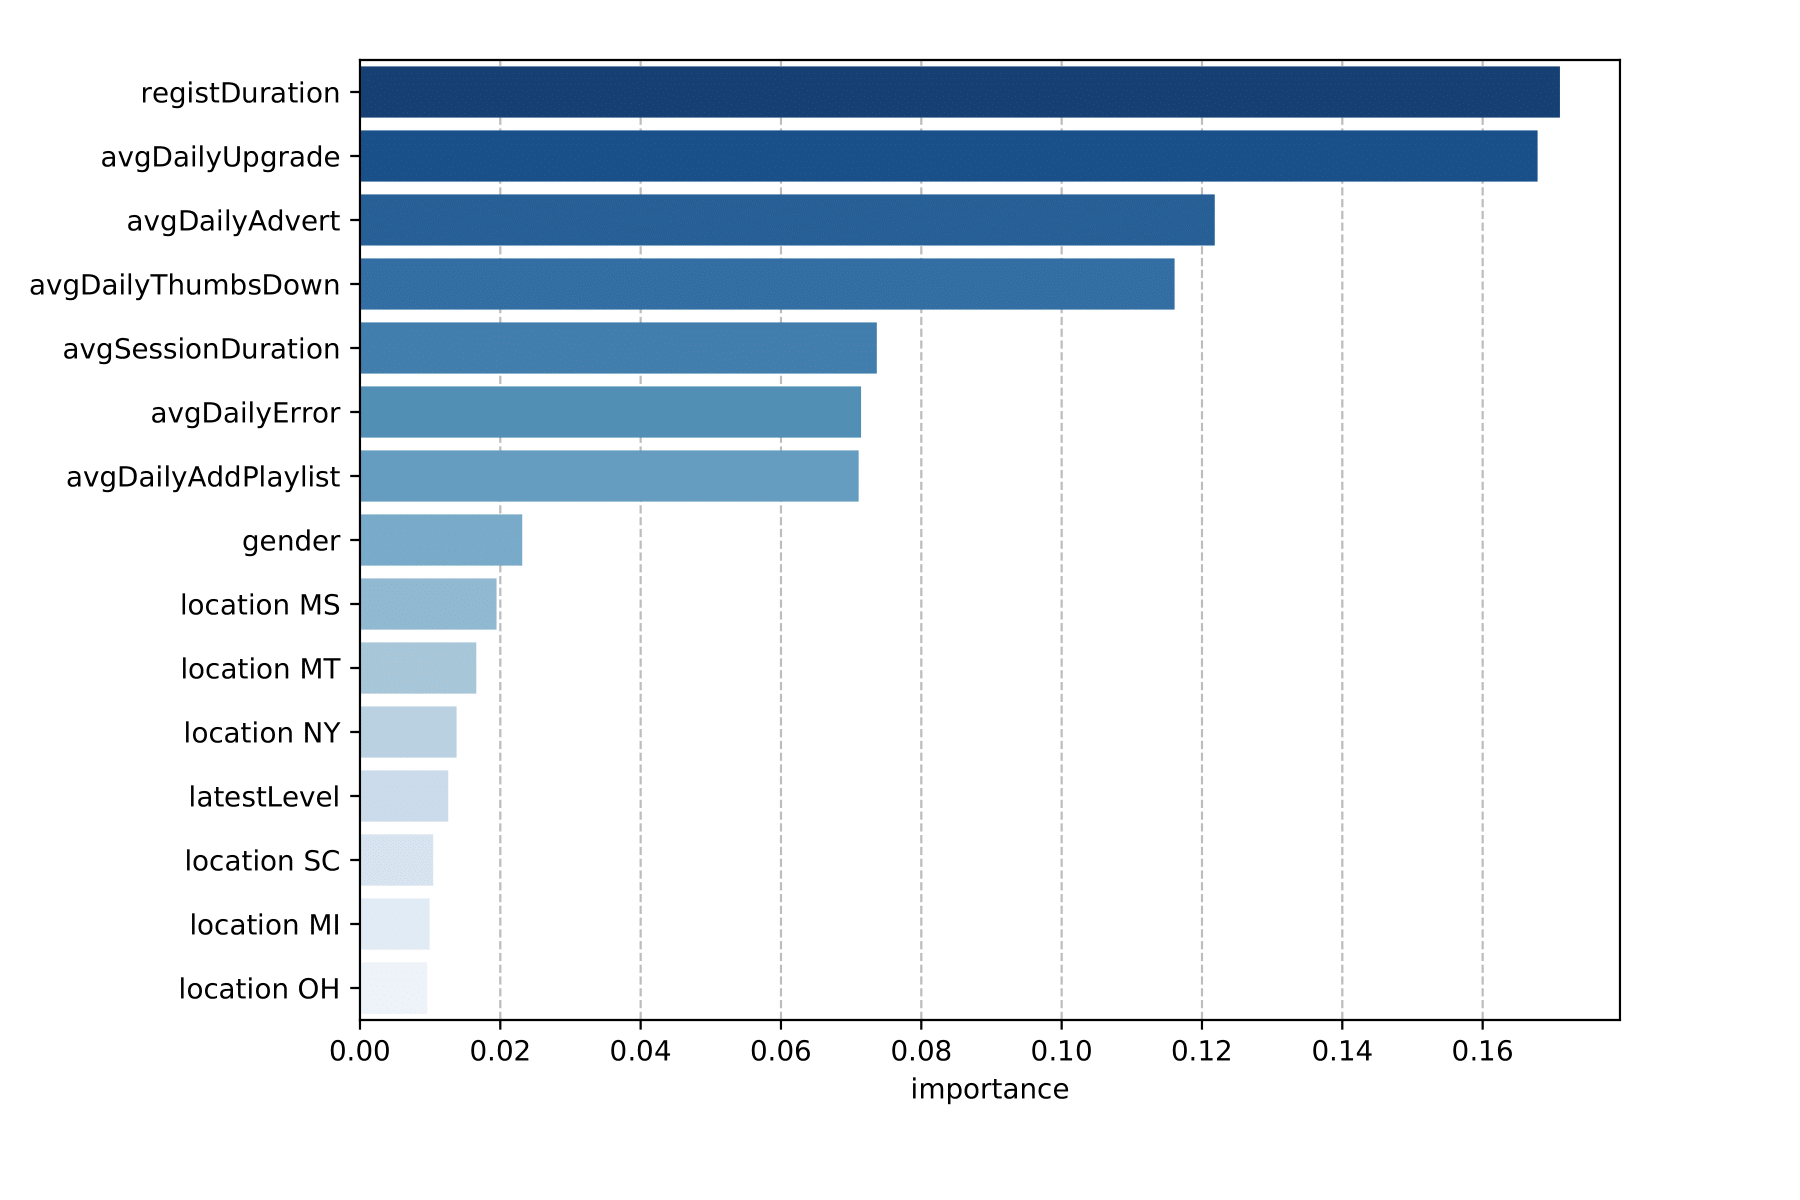
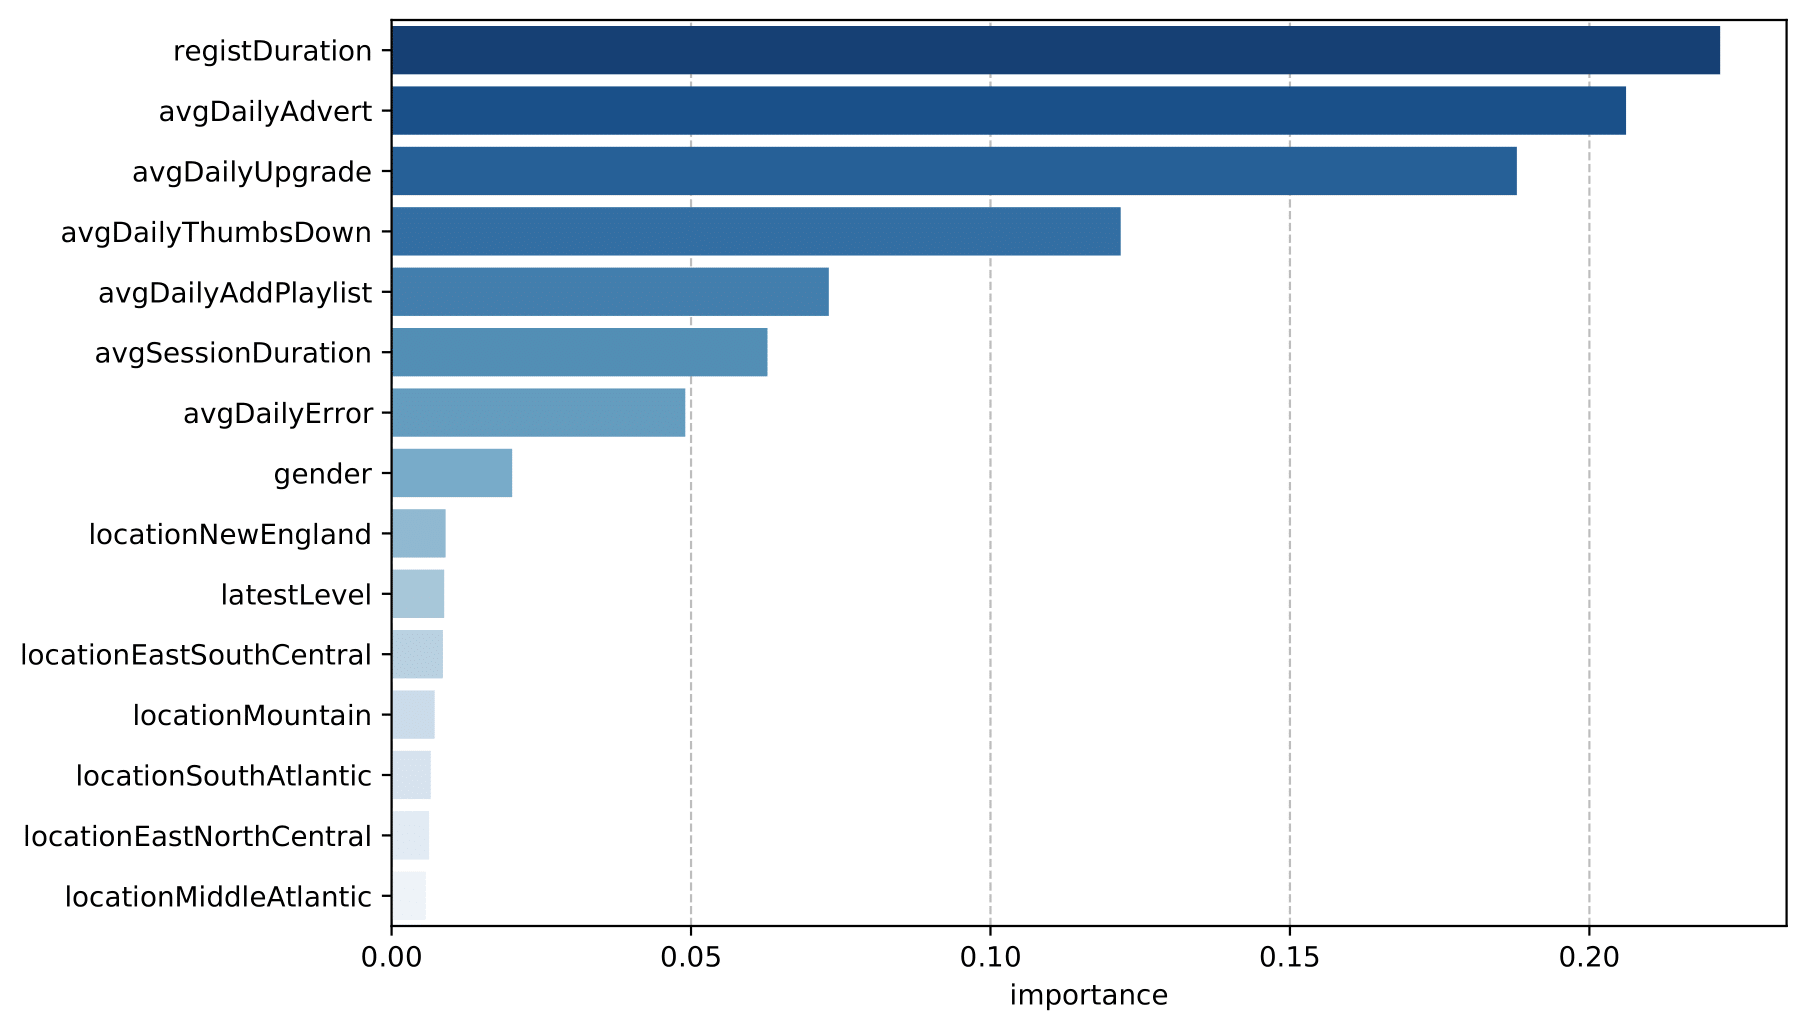
Update figures

Changed region(s): [[0.0, 0.0, 0.9956, 0.9311], [0.56, 0.9622, 0.6533, 0.9932]]

diff --git a/content/post/Sparkify-churn-prediction/index.html b/content/post/Sparkify-churn-prediction/index.html
@@ -9,8 +9,7 @@ tags:
 - Feature engineering
 - Spark
 subtitle: ''
-summary: Explore the capabilities of Apache Spark's analytics engine for large-scale
-  data processing to detect churn customers.
+summary: Use Apache Spark for large-scale data processing to predict customer churn
 authors: [Wei Guo]
 lastmod: []
 featured: no
@@ -211,7 +210,8 @@ projects: []
 <div id="feature-engineering-and-exploratory-data-analysis" class="section level2">
 <h2>Feature engineering and exploratory data analysis</h2>
 <p>We use the <em>Cancellation Confirmation</em> events of the <strong>page</strong> column to define the customer churn.</p>
-<pre class="python"><code>userWindow = Window.partitionBy(&#39;userId&#39;).orderBy(&#39;ts&#39;).rangeBetween(Window.unboundedPreceding,Window.unboundedFollowing)
+<pre class="python"><code># create a window partitioned by &#39;userId&#39;
+userWindow = Window.partitionBy(&#39;userId&#39;).orderBy(&#39;ts&#39;).rangeBetween(Window.unboundedPreceding,Window.unboundedFollowing)
 
 # label churned users to be 1 and unchurned users to be 0 
 df = df \
@@ -241,6 +241,7 @@ avg_session_duration_df = df \
 # define the default start and end of the observation period
 obs_start_default = df.select(min(col(&#39;ts&#39;))).collect()[0][0]
 obs_end_default = df.select(max(col(&#39;ts&#39;))).collect()[0][0]  
+
 # compute the observation period
 df = df \
     .withColumn(&#39;obs_start&#39;, when(col(&#39;registration&#39;) &gt; obs_start_default, first(col(&#39;ts&#39;)).over(userWindow)) \
@@ -281,9 +282,9 @@ user_df = user_df \
         .withColumn(&#39;avgDailyAdvert&#39;, col(&#39;nAdvert&#39;) / col(&#39;obsDays&#39;)) \
         .withColumn(&#39;avgDailyHelp&#39;, col(&#39;nHelp&#39;) / col(&#39;obsDays&#39;)) \
         .withColumn(&#39;avgDailyError&#39;, col(&#39;nError&#39;) / col(&#39;obsDays&#39;)) \
-        .drop(&#39;obsDays&#39;, &#39;nSongs&#39;, &#39;nThumbsUp&#39;, &#39;nThumbsDown&#39;, &#39;nUpgrade&#39;, &#39;nDowngrade&#39;, \
+        .drop(&#39;userId&#39;, &#39;obsDays&#39;, &#39;nSongs&#39;, &#39;nThumbsUp&#39;, &#39;nThumbsDown&#39;, &#39;nUpgrade&#39;, &#39;nDowngrade&#39;, \
               &#39;nAddFriend&#39;, &#39;nAddPlaylist&#39;, &#39;nAdvert&#39;, &#39;nHelp&#39;, &#39;nError&#39;)</code></pre>
-<p><img src="gender_latest_level_count.png" style="width:90.0%" /> <img src="location_count.png" style="width:100.0%" /></p>
+<p><img src="gender_latest_level_count.png" style="width:80.0%" /> <img src="location_count.png" style="width:80.0%" /></p>
 <p>An overall look at the first three categorical feaures indicates:</p>
 <ul>
 <li>The churn rates are only slightly higher for male users and free users</li>
@@ -312,7 +313,7 @@ cor_mat = user_df_pd[[&#39;gender&#39;, &#39;latestLevel&#39;,&#39;registDuratio
 # plot feature correlations
 sns.heatmap(cor_mat, cmap=sns.diverging_palette(240, 20, as_cmap=True), annot=True, square=True, vmin=-1, vmax=1)</code></pre>
 <div class="figure">
-<img src="feature_correlations.png" style="width:90.0%" />
+<img src="feature_correlations.png" style="width:80.0%" />
 
 </div>
 <p>From the heatmap above, we find</p>
@@ -320,8 +321,8 @@ sns.heatmap(cor_mat, cmap=sns.diverging_palette(240, 20, as_cmap=True), annot=Tr
 <li><p>There is a high correlation between most of the page event activities. For example, variables <strong>avgDailySongs</strong>, <strong>avgDailyThumbsUp</strong>, <strong>avgDailyDowngrade</strong>, <strong>avgDailyAddFriend</strong>, <strong>avgDailyAddPlaylist</strong> and <strong>avgDailyHelp</strong> are almost perfectly coupled. To avoid multicolinearity in the data, we only retain <strong>avgDailyAddPlaylist</strong> here (as it has the highest correlation with <strong>Churn</strong>).</p></li>
 <li><p><strong>Churn</strong> doesn not appear to have strong correlations with any features. <strong>registDuration</strong> is negatively correlated with <strong>Churn</strong> while <strong>avgDaily</strong> has the highest positive correlation with <strong>Churn</strong>. It also shows that <strong>gender</strong>, <strong>latestLevel</strong>, <strong>avgSessionDuration</strong> and <strong>avgDailyError</strong> all have very low correlation with <strong>Churn</strong>. This is consistent with our previous findings through direct visualization. However, the Pearson correlation assumes a linear relationship, and a low correlation simply means that there is no linear relationship between these features and the response variable. The data might still have a nonlinear relationship and should be included in the modeling for now.</p></li>
 </ul>
-<pre class="python"><code>feat_df = user_df.drop(&#39;userId&#39;, &#39;avgDailySongs&#39;, &#39;avgDailyThumbsUp&#39;, 
-                      &#39;avgDailyDowngrade&#39;, &#39;avgDailyAddFriend&#39;, &#39;avgDailyHelp&#39;)</code></pre>
+<pre class="python"><code># drop highly correlated features
+feat_df = user_df.drop(&#39;avgDailySongs&#39;, &#39;avgDailyThumbsUp&#39;, &#39;avgDailyDowngrade&#39;, &#39;avgDailyAddFriend&#39;, &#39;avgDailyHelp&#39;)</code></pre>
 </div>
 <div id="feature-transformation" class="section level3">
 <h3>Feature transformation</h3>
@@ -366,12 +367,10 @@ model_df = data_pipeline.fit(feat_df).transform(feat_df)</code></pre>
 </div>
 <div id="modeling-and-evaluation" class="section level2">
 <h2>Modeling and evaluation</h2>
-<p>We randomly split the entire dataset into a training set, a validation set and a test set in 6:2:2 ratio using stratified sampling based on <strong>Churn</strong>.</p>
+<p>We randomly split the entire dataset into a training and a test set in 8:2 ratio using stratified sampling based on <strong>Churn</strong>.</p>
 <pre class="python"><code># split the data into train, validation and test sets using stratified sampling based on &#39;Churn&#39;
-train_val = model_df.sampleBy(&#39;Churn&#39;, fractions={0: 0.8, 1: 0.8}, seed=2020)
-test = model_df.subtract(train_val)
-train = train_val.sampleBy(&#39;Churn&#39;, fractions={0: 0.75, 1: 0.75}, seed=2020)
-val = train_val.subtract(train)</code></pre>
+train = model_df.sampleBy(&#39;Churn&#39;, fractions={0: 0.8, 1: 0.8}, seed=2020)
+test = model_df.subtract(train_val)</code></pre>
 <p>Using Spark’s <strong>sampleBy</strong> function, the training, validation and test set now consists of 161, 20 and 44 users, respectively. Notice the training and validation set do not follow a 75/25 split since Spark’s sampleBy function does not guarantee an exact split to the weights (fluctuations often happen if number of records is low). It only guarantees that each object has equal probability to be assigned to a specific subset.</p>
 <div id="performance-metrics" class="section level3">
 <h3>Performance metrics</h3>
@@ -380,69 +379,8 @@ val = train_val.subtract(train)</code></pre>
 <div id="model-selection" class="section level3">
 <h3>Model selection</h3>
 <p>We select three binary classifiers supported in Spark as candidate models: logistic regression, random forest classifier and gradient-boosted tree classifier. Both random forest and gradient-boosted techniques employ an ensemble of decision trees (base estimators) to improve the predictive capability over a single estimator. The difference is random forest builds several estimators independently and then average their predictions, while gradient-boosted tree buils base estimators sequentially to generate a powerful ensemble. The predictions from the three models on the validation set without tuning are demonstrated below:</p>
-<pre class="python"><code># logistic regression
-lr = LogisticRegression(featuresCol=&#39;features&#39;, labelCol=&#39;Churn&#39;, seed=2020)
-lr_model = lr.fit(train)
-
-# random forest classifier
-rf = RandomForestClassifier(featuresCol=&#39;features&#39;, labelCol=&#39;Churn&#39;, seed=2020)
-rf_model = rf.fit(train)
-
-# gradient-boosted tree classifier
-gb = GBTClassifier(featuresCol=&#39;features&#39;, labelCol=&#39;Churn&#39;, seed=2020)
-gb_model = gb.fit(train)
-
-model_dict = {&#39;logistic regression&#39;: lr_model,
-              &#39;random forest classifier&#39;: rf_model,
-              &#39;gradient-boosted tree classifier&#39;: gb_model}
-
-for model_name, model in model_dict.items():    
-    # predict on validation set
-    val_prediction = model.transform(val)
-    
-    # compute f1 score
-    f1_score_evaluator = MulticlassClassificationEvaluator(labelCol=&#39;Churn&#39;, metricName=&#39;f1&#39;)
-    f1_score = f1_score_evaluator.evaluate(val_prediction.select(&#39;Churn&#39;, &#39;prediction&#39;))
-    print(&#39;F1 score for {} on validation set: {:.3f}&#39;.format(model_name, f1_score))
-    
-    # compute area under PR curve
-    auc_evaluator = BinaryClassificationEvaluator(labelCol=&#39;Churn&#39;)
-    auc_pr = auc_evaluator.evaluate(val_prediction, {auc_evaluator.metricName:&#39;areaUnderPR&#39;})
-    print(&#39;Area under PR curve for {} on validation set: {:.3f}\n&#39;.format(model_name, auc_pr))</code></pre>
-<center>
-<div style="width:60%;">
-<table>
-<thead>
-<tr class="header">
-<th>Classifier</th>
-<th>F1 score</th>
-<th>AUC-PR</th>
-<th>Training time (s)</th>
-</tr>
-</thead>
-<tbody>
-<tr class="odd">
-<td>Logistic regression</td>
-<td>0.659</td>
-<td>0.128</td>
-<td>130.8</td>
-</tr>
-<tr class="even">
-<td>Random forest classifier</td>
-<td>0.811</td>
-<td>0.460</td>
-<td>67.0</td>
-</tr>
-<tr class="odd">
-<td>Gradient-boosted tree classifier</td>
-<td>0.760</td>
-<td>0.502</td>
-<td>267.9</td>
-</tr>
-</tbody>
-</table>
-</div>
-</center>
+<pre class="python"><code>
+</code></pre>
 <p>The results show that the random forest classifier outperforms both the logistic regression model and the gradient-boosted tree classifier in terms of f1 score and training time. The gradient-boosted tree classifier only performs marginally better than the random forest classifer in AUC-PR. As aforementioned, the features and the response variable do not follow a linear relationship, which suggest that a non-linear model might be more suited to the data.</p>
 </div>
 <div id="hyperparameter-tuning" class="section level3">
@@ -468,80 +406,99 @@ f1_score = f1_score_evaluator.evaluate(test_prediction.select(&#39;Churn&#39;, &
 
 auc_evaluator = BinaryClassificationEvaluator(labelCol=&#39;Churn&#39;)
 auc_pr = auc_evaluator.evaluate(test_prediction, {auc_evaluator.metricName:&#39;areaUnderPR&#39;})</code></pre>
-<center>
-<div style="width:30%;">
+<div style="width:100%;">
 <table>
+<colgroup>
+<col width="22%" />
+<col width="11%" />
+<col width="9%" />
+<col width="10%" />
+<col width="10%" />
+<col width="8%" />
+<col width="10%" />
+<col width="8%" />
+<col width="9%" />
+</colgroup>
 <thead>
 <tr class="header">
-<th>maxDepth</th>
-<th>numTrees</th>
-<th>F1 score</th>
+<th align="left">Classifier</th>
+<th align="left">Parameters</th>
+<th align="center">Precision</th>
+<th></th>
+<th align="center">Recall</th>
+<th></th>
+<th align="center">F1 score</th>
+<th></th>
+<th align="center">AUC-PR</th>
 </tr>
 </thead>
 <tbody>
 <tr class="odd">
-<td>4</td>
-<td>20</td>
-<td>0.812</td>
+<td align="left"></td>
+<td align="left"></td>
+<td align="center">Overall</td>
+<td>Churned</td>
+<td align="center">Overall</td>
+<td>Churned</td>
+<td align="center">Overall</td>
+<td>Churned</td>
+<td align="center"></td>
 </tr>
 <tr class="even">
-<td>5</td>
-<td>20</td>
-<td>0.808</td>
+<td align="left">Logistic regression</td>
+<td align="left">maxIter=10, regParam=0.1, elasticNetParam=0.5</td>
+<td align="center">0.85</td>
+<td>1.00</td>
+<td align="center">0.82</td>
+<td>0.20</td>
+<td align="center">0.77</td>
+<td>0.33</td>
+<td align="center">0.72</td>
 </tr>
 <tr class="odd">
-<td>6</td>
-<td>20</td>
-<td>0.814</td>
+<td align="left">Random forest classifier</td>
+<td align="left">maxDepth=4, numTrees=100</td>
+<td align="center">0.86</td>
+<td><strong>0.75</strong></td>
+<td align="center">0.86</td>
+<td><strong>0.60</strong></td>
+<td align="center"><strong>0.86</strong></td>
+<td>0.67</td>
+<td align="center"><strong>0.77</strong></td>
 </tr>
 <tr class="even">
-<td>4</td>
-<td>40</td>
-<td>0.802</td>
-</tr>
-<tr class="odd">
-<td>5</td>
-<td>40</td>
-<td>0.826</td>
-</tr>
-<tr class="even">
-<td>6</td>
-<td>40</td>
-<td>0.806</td>
+<td align="left">Gradient-boosted tree classifier</td>
+<td align="left">maxDepth=5, maxIter=100</td>
+<td align="center">0.77</td>
+<td>0.43</td>
+<td align="center">0.73</td>
+<td>0.60</td>
+<td align="center">0.74</td>
+<td>0.50</td>
+<td align="center">0.65</td>
 </tr>
 </tbody>
 </table>
 </div>
-</center>
 <p>The best model is achieved at maxDepth=5 and numTrees=40. We apply this model to the test set, and we obtain a improved <strong>f1 score</strong> of <strong>0.830</strong> and <strong>AUC-PR</strong> of <strong>0.731</strong>.</p>
 </div>
 <div id="feature-importance" class="section level3">
 <h3>Feature importance</h3>
 <p>To gain a better understanding of the feature attributes to the model in predicting user churn, we extract feature importances from the trained model.</p>
-<pre class="python"><code># map features from the output of VectorAssembler back to the column names
-attr_dict = test_prediction.schema[&#39;features&#39;].metadata[&#39;ml_attr&#39;][&#39;attrs&#39;]
+<pre class="python"><code>features = bin_cols + num_cols
+importances = list(cv_rf.bestModel.stages[-1].featureImportances)
+feat_imp_pd = pd.DataFrame({&#39;feature&#39;: features, &#39;importance&#39;: importances}).sort_values(&#39;importance&#39;, ascending = False)
 
-# rename categorical columns
-bin_attrs = [[attr[&quot;idx&quot;], attr[&quot;name&quot;]] for attr in attr_dict[&#39;binary&#39;]]
-for bin_attr in bin_attrs:
-    name_split = bin_attr[1].split(&#39;_&#39;)
-    if name_split[0] == &#39;location&#39;:
-        bin_attr[1] = name_split[0] + name_split[-1]
-    else:
-        bin_attr[1] = name_split[0]
-        
-# rename numerical columns
-num_attrs = [[attr[&quot;idx&quot;], attr[&quot;name&quot;]] for attr in attr_dict[&#39;numeric&#39;]] 
-num_attrs = [[num_attr[0], num_cols[i]] for i, num_attr in enumerate(num_attrs)]
-
-features = [attr[1] for attr in bin_attrs + num_attrs]
-importances = list(cv_rf.bestModel.featureImportances)</code></pre>
+# plot feature importance
+sns.barplot(data=feat_imp_pd.head(15), y=&quot;feature&quot;, x=&quot;importance&quot;, palette=&#39;Blues_r&#39;, zorder=2)
+plt.grid(axis=&#39;x&#39;, linestyle=&#39;--&#39;, zorder=0)
+plt.ylabel(&#39;&#39;);</code></pre>
 <div class="figure">
 <img src="feature_importance.png" style="width:80.0%" />
 
 </div>
-<p>It can be seen that the most important feature for identifying churned users is the registration duration which makes sense since it directly reflects a user’s willness to stay with the service. Besides, average upgrades and thumbs down given per day that represent a user’s strong inclination also play major roles in churn prediction. Another influential feature that helps churn detection is avarage daily advertisements. Intuitively, the more advertisements a user has to watch, the more likely he/she is dissatisfied with the service.</p>
-<p>The result also shows that gender, latest subscription level and each one-hot encoded location feature contribute little to predicting churned users. Nevertheless, we notice that all the top location features have much higher churn rates than the average churn rate.</p>
+<p>It can be seen that the most important feature for identifying churned users is the registration duration which makes sense since it directly reflects a user’s willness to stay with the service. Another influential feature that plays a major role in churn prediction is avarage daily advertisements. Intuitively, the more advertisements a user has to watch, the more likely he/she is dissatisfied with the service. Besides, average upgrades and thumbs down given per day that represent a user’s strong inclination also help churn detection.</p>
+<p>The result also shows that gender, latest subscription level and each location feature contribute little to predicting churned users. Nevertheless, we notice that top location features, sch as New England and east south central areas have far different churn rates than the average churn rate.</p>
 </div>
 </div>
 <div id="conclusion" class="section level2">
